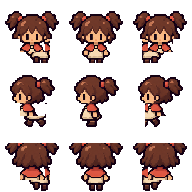
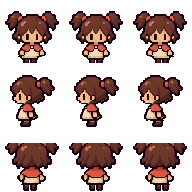
Artist's enemies v1: dryad, zombie, skeleton, bandit, gang boss drawn; townsfolk 11 and 15 redrawn and back on the streets
Claude-Session: https://claude.ai/code/session_01TYXz2638NXWLT7qwgW6KkP

diff --git a/src/content/wyglad.ts b/src/content/wyglad.ts
@@ -19,6 +19,8 @@ export interface Postac {
   skala: number;
   /** Make the STROJE colour variants from the mask (false: the mask is wrong, only the drawn colours). */
   przebarwiaj?: boolean;
+  /** Has a clothes mask file (`<plik>_maska.png`); the enemies don't. */
+  maska?: boolean;
   /** Kept off the streets until the artist redraws it (e.g. broken walking frames). */
   wylaczona?: boolean;
   /** Who it is, so the townsfolk get a fitting name: k = woman/girl, m = man/boy. */
@@ -56,15 +58,25 @@ export const MIESZKANCY_HD: Postac[] = [
   { id: 'pani', nazwa: 'Kobieta', plik: 'mieszkaniec_08', bokWPrawo: false, skala: 0.36, plec: 'k', wiek: 'dorosly' },
   { id: 'pan', nazwa: 'Mężczyzna', plik: 'mieszkaniec_09', bokWPrawo: false, skala: 0.36, plec: 'm', wiek: 'dorosly' },
   { id: 'dziadek', nazwa: 'Starszy pan', plik: 'mieszkaniec_10', bokWPrawo: false, skala: 0.36, plec: 'm', wiek: 'starszy' },
-  { id: 'panienka', nazwa: 'Dziewczynka', plik: 'mieszkaniec_11', bokWPrawo: false, skala: 0.36, plec: 'k', wiek: 'dziecko', wylaczona: true }, // same broken step frames as 15
+  { id: 'panienka', nazwa: 'Dziewczynka', plik: 'mieszkaniec_11', bokWPrawo: false, skala: 0.36, plec: 'k', wiek: 'dziecko' }, // redrawn in the enemies pack v1
   { id: 'urwis', nazwa: 'Chłopiec', plik: 'mieszkaniec_12', bokWPrawo: false, skala: 0.36, plec: 'm', wiek: 'dziecko' },
   { id: 'staruszka', nazwa: 'Starsza pani', plik: 'mieszkaniec_13', bokWPrawo: false, skala: 0.36, plec: 'k', wiek: 'starszy' },
   { id: 'staruszek', nazwa: 'Starszy pan w kapeluszu', plik: 'mieszkaniec_14', bokWPrawo: false, skala: 0.36, plec: 'm', wiek: 'starszy' },
-  { id: 'mieszczka', nazwa: 'Kobieta', plik: 'mieszkaniec_15', bokWPrawo: false, skala: 0.36, plec: 'k', wiek: 'dorosly', wylaczona: true }, // step frames: the skirt is a flat strip and the legs fly forward (owner: "przepołowiona")
+  { id: 'mieszczka', nazwa: 'Kobieta', plik: 'mieszkaniec_15', bokWPrawo: false, skala: 0.36, plec: 'k', wiek: 'dorosly' }, // redrawn in the enemies pack v1 (the first v5 step frames were "halved")
 ];
 
 /** The imp (chochlik): smaller than a person. */
 export const CHOCHLIK: Postac = { id: 'chochlik', nazwa: 'Chochlik', plik: 'slime', bokWPrawo: false, skala: 0.28 };
+
+/** The other enemies (pack „wrogowie v1”; no masks, the game adds the red glow). Key = enemy kind(s) in fabula.ts. */
+export const WROGOWIE_HD: { postac: Postac; rodzaje: string[] }[] = [
+  { postac: { id: 'driada', nazwa: 'Driada', plik: 'driada', bokWPrawo: false, skala: 0.32, maska: false }, rodzaje: ['driada'] },
+  { postac: { id: 'zombie', nazwa: 'Zombiak', plik: 'zombie', bokWPrawo: false, skala: 0.32, maska: false }, rodzaje: ['zombie'] },
+  { postac: { id: 'szkielet', nazwa: 'Szkielet', plik: 'szkielet', bokWPrawo: false, skala: 0.32, maska: false }, rodzaje: ['szkielet'] },
+  { postac: { id: 'bandyta', nazwa: 'Bandyta', plik: 'bandyta', bokWPrawo: false, skala: 0.36, maska: false }, rodzaje: ['bandyta'] },
+  // The boss: a bigger goblin with a helmet and a club; the game makes him 1.8× / 2.5× bigger (ENEMY_KINDS scale).
+  { postac: { id: 'herszt', nazwa: 'Herszt', plik: 'herszt', bokWPrawo: false, skala: 0.28, maska: false }, rodzaje: ['herszt', 'wielki_herszt'] },
+];
 
 /** Townsfolk: each hero in these clothes colours (hue in degrees, saturation ×, lightness ×) – red and green mask parts. */
 export const STROJE: { ubranie: [number, number, number]; drugi: [number, number, number] }[] = [

diff --git a/src/objects/Slime.ts b/src/objects/Slime.ts
@@ -1,7 +1,7 @@
 import Phaser from 'phaser';
 import { TEX, HERO_DIRS } from '../art';
 import type { RodzajWroga } from '../content/fabula';
-import { hdOn, fitHd } from '../sprites';
+import { hdOn, fitHd, enemyTexture } from '../sprites';
 import { PLAYER } from './Player';
 
 // Enemy kinds. `glut` is the basic slime; `wielki_glut` a boss-sized one;
@@ -43,9 +43,6 @@ export const SLIME = ENEMY_KINDS.glut;
 /** Enemy speeds above were set for a hero walking 60 px/s; they keep the same proportion to the hero's speed now. */
 export const PREDKOSC_WROGOW = PLAYER.speed / 60;
 
-/** Imps drawn as the new detailed goblin (content/wyglad.ts), with a red glow. */
-const HD_IMP = 'hd-chochlik-red';
-const HD_KINDS = new Set<RodzajWroga>(['glut', 'wielki_glut', 'herszt', 'wielki_herszt']);
 
 /** Pictures of the little creatures (all but the bandit). */
 const CRITTER_TEX: Partial<Record<RodzajWroga, string>> = { glut: TEX.slime, wielki_glut: TEX.slime, herszt: TEX.slime, wielki_herszt: TEX.slime, driada: TEX.dryad, zombie: TEX.zombie, szkielet: TEX.skeleton, smok: TEX.dragon };
@@ -90,8 +87,10 @@ export class Slime extends Phaser.GameObjects.Sprite {
   constructor(scene: Phaser.Scene, x: number, y: number, kind: RodzajWroga = 'glut') {
     const k = ENEMY_KINDS[kind];
     const person = kind === 'bandyta' || kind === 'wojownik';
-    const hd = hdOn && HD_KINDS.has(kind) && scene.textures.exists(HD_IMP);
-    super(scene, x, y, hd ? HD_IMP : person ? TEX.bandit : CRITTER_TEX[kind] ?? TEX.slime, person || hd ? 'down-0' : 'f0');
+    // The artist's detailed enemies (content/wyglad.ts), with a red glow; townsfolk in duels bring their own picture.
+    const hdTex = hdOn && kind !== 'wojownik' ? enemyTexture(kind) : null;
+    const hd = !!hdTex && scene.textures.exists(hdTex);
+    super(scene, x, y, hd ? hdTex! : person ? TEX.bandit : CRITTER_TEX[kind] ?? TEX.slime, person || hd ? 'down-0' : 'f0');
     scene.add.existing(this);
     this.kind = k;
     this.kindId = kind;
@@ -99,12 +98,12 @@ export class Slime extends Phaser.GameObjects.Sprite {
     this.hd = hd;
     if (hd) {
       fitHd(this, k.scale);
-      this.walkAnim = `${HD_IMP}-walk`;
+      this.walkAnim = `${hdTex}-walk`;
     } else {
       this.setScale(k.scale);
       this.setOrigin(0.5, 1 - 0.5 / k.scale); // grow upwards from the feet
     }
-    if (k.tint) this.setTint(k.tint);
+    if (k.tint && !(hd && kind === 'herszt')) this.setTint(k.tint); // the drawn boss has his own look; the big one stays redder
     this.home = new Phaser.Math.Vector2(x, y);
     if (hd) this.setFrame('down-0');
     else if (kind === 'smok') this.anims.play('dragon-flap');

diff --git a/src/sprites.ts b/src/sprites.ts
@@ -1,5 +1,5 @@
 import Phaser from 'phaser';
-import { BOHATEROWIE, CHOCHLIK, PIERWSI_BOHATEROWIE, MIESZKANCY_HD, NOWE_POSTACIE, POSWIATA, STOPY_PX, STROJE, type Postac } from './content/wyglad';
+import { BOHATEROWIE, CHOCHLIK, WROGOWIE_HD, PIERWSI_BOHATEROWIE, MIESZKANCY_HD, NOWE_POSTACIE, POSWIATA, STOPY_PX, STROJE, type Postac } from './content/wyglad';
 import { HERO_DIRS } from './art';
 
 // The new detailed characters (content/wyglad.ts). Every sheet becomes a
@@ -26,11 +26,21 @@ const ROW = { down: 0, side: 1, up: 2 } as const;
 
 export const hdOn = NOWE_POSTACIE;
 
+const ENEMIES = WROGOWIE_HD.map((w) => w.postac);
+const ALL = () => [...BOHATEROWIE, ...MIESZKANCY_HD, CHOCHLIK, ...ENEMIES];
+
+/** The detailed picture (with the red glow) of an enemy kind, when the artist drew one. */
+export function enemyTexture(kind: string): string | null {
+  if (kind === 'glut' || kind === 'wielki_glut') return 'hd-chochlik-red';
+  const w = WROGOWIE_HD.find((q) => q.rodzaje.includes(kind));
+  return w ? `hd-${w.postac.id}-red` : null;
+}
+
 export function loadHdSprites(scene: Phaser.Scene) {
   if (!hdOn) return;
-  for (const p of [...BOHATEROWIE, ...MIESZKANCY_HD, CHOCHLIK]) {
+  for (const p of ALL()) {
     scene.load.image(`hdsrc-${p.id}`, `postacie/${p.plik}.png`);
-    scene.load.image(`hdmask-${p.id}`, `postacie/${p.plik}_maska.png`);
+    if (p.maska !== false) scene.load.image(`hdmask-${p.id}`, `postacie/${p.plik}_maska.png`);
   }
 }
 
@@ -62,7 +72,7 @@ function baseOf(key: string) {
 
 export function createHdSprites(scene: Phaser.Scene) {
   if (!hdOn) return;
-  for (const p of [...BOHATEROWIE, ...MIESZKANCY_HD, CHOCHLIK]) {
+  for (const p of ALL()) {
     if (!scene.textures.exists(`hdsrc-${p.id}`)) continue;
     const src = sheetPixels(scene, p);
     const mask = maskPixels(scene, p);
@@ -70,7 +80,7 @@ export function createHdSprites(scene: Phaser.Scene) {
     skala.set(key, p.skala);
     addSheet(scene, key, src);
     addSheet(scene, `${key}-red`, glow(src));
-    if (p === CHOCHLIK || p.przebarwiaj === false) continue;
+    if (p === CHOCHLIK || ENEMIES.includes(p) || p.przebarwiaj === false) continue;
     STROJE.forEach((s, i) => {
       if (i === 0) return;
       const c = recolour(src, mask, s);

diff --git a/CLAUDE.md b/CLAUDE.md
@@ -28,7 +28,7 @@
 - Item pictures: 16×16 pixel-art PNGs in `public/items/<item id>.png` (made by the owner with another AI: 1 px #1e1a24 outline, transparent, no anti-aliasing), shown enlarged with `image-rendering: pixelated` by `src/ui/itemIcon.ts` (list `HAVE`) in the character sheet and the chest (empty slots show a greyed one, `EMPTY_PIC`), and as Phaser textures `item-<id>` (loaded in BootScene.preload, `itemTexture`) on shop/library buttons (`DialogRequest.icons`); items without a picture fall back to emoji. New items need a PNG and an entry in `ITEM_PICTURES`.
 - Hero look: `src/look.ts` draws the player's hero pixel by pixel (16×20 frames: head shape, build, outfit, hairstyle, skin/hair/top/bottom colours, plus worn helmet/headwear, armour and boots). Random at creation (preview in menu.ts, "🎲 Losuj wygląd" rolls again; the sliders were removed on the owner's request), saved as `save.look` (create_character `p_look`). In the game the texture is `hero-me` with anims `me-walk-*` (`makePlayerTexture` in art.ts), redrawn when worn gear changes (`refreshLook`). NPCs still use the default `hero` texture. Headwear items: kapelusz (Robin Hood), skórzany/żelazny hełm, czapka_maga (library), korona (only via codes/rewards); shops offer every headwear not owned.
 - The owner tried the modular 24×30 character parts (modularne_postacie_24x30) and rejected them ("fatalnie wyglądają").
-- New detailed characters (test server; `NOWE_POSTACIE` in `src/content/wyglad.ts`, code in `src/sprites.ts`): artist sheets in `public/postacie/<plik>.png` (192×192 = 3×3 frames of 64: rows down/side-looking-left/up, columns step A/stand/step B, feet at px 62) + `<plik>_maska.png` (red = clothes, green = second colour). Textures `hd-<id>` with the old frame names (`down-0`…), smoothed (LINEAR), shrunk by `skala` (0.36 people, 0.28 imp; `fitHd` keeps the feet 8 px under the position); `-red` copies with a baked red glow (POSWIATA) for enemies and duel townsfolk; townsfolk = the artist's MIESZKANCY_HD (mieszkaniec_01–15: kobieta, chlopiec, wasacz, babcia, mlodzieniec, dziewczynka, chlopak, pani, pan, dziadek, panienka, urwis, staruszka, staruszek, mieszczka; 11–15 and the restyled traveler/knight/ranger/slime + masks from the style fix pack v5 – its 06–10 were not to be copied; masks from the v3 pack mark only clothes, so each also comes in the STROJE colours = 50 looks; notes for the artist's next pack in docs/paczka-dla-artysty/UWAGI_przed_kolejna_paczka.md; `przebarwiaj: false` turns variants off for a sheet with a bad mask; `wylaczona: true` keeps a sheet off the streets (11 and 15: the v5 step frames draw the skirt as a flat strip, the owner saw the woman "halved"; asked the artist to redraw – the „poprawki” in the heroes 04–10 pack were byte-identical to the old files); every Postac has `plec` k/m + `wiek` dziecko/dorosly/starszy, and Townsfolk names them from MIESZKANCY.imionaWg via `personOf(tex)` – the owner caught a woman named "Pan Rysiek") or, without them, the heroes × STROJE recolours (`hd-<id>-s<n>`); stray specks are removed, `bokWPrawo` mirrors a side row that looks right, and `centreShifts` lines the frames up (the artist drew the standing frame 4–6 px off the steps for the knight/ranger, so walking jittered: each step frame is moved to best cover the standing one's outline, then the row so the standing body's lower half is centred; the mask gets the same shifts). Hero = BOHATEROWIE[`look.postac`] (◀ ▶ in the character sheet; 10 heroes: traveler/knight/ranger + bohater_04–10; a new character gets a random `postac` at creation; without one the name hash picks among the first PIERWSI_BOHATEROWIE 3, so older characters keep their look); worn gear doesn't show on them (owner OK). Imps (glut, wielki_glut, herszt, wielki_herszt) use `hd-chochlik-red` and walk by direction (`Slime.hd`). Old 16×20 look.ts heroes stay for the menu preview, fixed NPCs, riddle-givers, the wizard and when the flag is off. The one package for the artist: `docs/paczka-dla-artysty/` (CZYTAJ_MNIE.md/.html = all guidelines incl. building tiles at the new 3× scale, sheet template, v1 issues, every current texture exported ×4 under its target file name, item icons, screenshots); zip it for the owner. Walking uses only the two step frames (`WALK` [1, 2], WALK_FPS 5): the v1 standing frames are drawn differently (ponytail/helmet), so step–stand–step jittered even aligned.
+- New detailed characters (test server; `NOWE_POSTACIE` in `src/content/wyglad.ts`, code in `src/sprites.ts`): artist sheets in `public/postacie/<plik>.png` (192×192 = 3×3 frames of 64: rows down/side-looking-left/up, columns step A/stand/step B, feet at px 62) + `<plik>_maska.png` (red = clothes, green = second colour). Textures `hd-<id>` with the old frame names (`down-0`…), smoothed (LINEAR), shrunk by `skala` (0.36 people, 0.28 imp; `fitHd` keeps the feet 8 px under the position); `-red` copies with a baked red glow (POSWIATA) for enemies and duel townsfolk; townsfolk = the artist's MIESZKANCY_HD (mieszkaniec_01–15: kobieta, chlopiec, wasacz, babcia, mlodzieniec, dziewczynka, chlopak, pani, pan, dziadek, panienka, urwis, staruszka, staruszek, mieszczka; 11–15 and the restyled traveler/knight/ranger/slime + masks from the style fix pack v5 – its 06–10 were not to be copied; masks from the v3 pack mark only clothes, so each also comes in the STROJE colours = 50 looks; notes for the artist's next pack in docs/paczka-dla-artysty/UWAGI_przed_kolejna_paczka.md; `przebarwiaj: false` turns variants off for a sheet with a bad mask; `wylaczona: true` keeps a sheet off the streets (used for 11 and 15 until the enemies pack v1 redrew them: the v5 step frames draw the skirt as a flat strip, the owner saw the woman "halved"; asked the artist to redraw – the „poprawki” in the heroes 04–10 pack were byte-identical to the old files); every Postac has `plec` k/m + `wiek` dziecko/dorosly/starszy, and Townsfolk names them from MIESZKANCY.imionaWg via `personOf(tex)` – the owner caught a woman named "Pan Rysiek") or, without them, the heroes × STROJE recolours (`hd-<id>-s<n>`); stray specks are removed, `bokWPrawo` mirrors a side row that looks right, and `centreShifts` lines the frames up (the artist drew the standing frame 4–6 px off the steps for the knight/ranger, so walking jittered: each step frame is moved to best cover the standing one's outline, then the row so the standing body's lower half is centred; the mask gets the same shifts). Hero = BOHATEROWIE[`look.postac`] (◀ ▶ in the character sheet; 10 heroes: traveler/knight/ranger + bohater_04–10; a new character gets a random `postac` at creation; without one the name hash picks among the first PIERWSI_BOHATEROWIE 3, so older characters keep their look); worn gear doesn't show on them (owner OK). Enemies walk by direction (`Slime.hd`): imps (glut, wielki_glut) use `hd-chochlik-red`; driada/zombie/szkielet/bandyta/herszt (+ wielki_herszt, the same goblin boss 2.5× and still red-tinted) come from the „wrogowie v1” pack (`WROGOWIE_HD` in wyglad.ts, `maska: false` = no mask file, `enemyTexture(kind)` in sprites.ts); duel townsfolk keep their own picture. Old 16×20 look.ts heroes stay for the menu preview, fixed NPCs, riddle-givers, the wizard and when the flag is off. The one package for the artist: `docs/paczka-dla-artysty/` (CZYTAJ_MNIE.md/.html = all guidelines incl. building tiles at the new 3× scale, sheet template, v1 issues, every current texture exported ×4 under its target file name, item icons, screenshots); zip it for the owner. Walking uses only the two step frames (`WALK` [1, 2], WALK_FPS 5): the v1 standing frames are drawn differently (ponytail/helmet), so step–stand–step jittered even aligned.
 - Sharper picture (`src/screen.ts` OSTROSC): the canvas has min(2, floor(devicePixelRatio)) pixels per CSS pixel (Scale.NONE, zoom 1/OSTROSC, resized by hand in main.ts); GameScene's zoom is ×OSTROSC, UIScene's camera is zoomed by OSTROSC and centred (origin 0 put Graphics off their place) so the HUD is still laid out in CSS px (`this.view`), its texts get resolution OSTROSC; screen↔world conversions divide/multiply by it. `watchSpeed`: under 35 fps after 15 s of play → localStorage `exp-ostrosc`=1 (plain picture from the next start). `?ostrosc=1|2` forces it. In headless swiftshader it costs ~28 → ~11 fps (fill rate).
 - Home: the nearest real building to the start point (`setUpHome`), a small house icon on its roof; a sword swing that lands on it opens the home (walking in does not). No enemies within `HOME_SAFE_M` (40 m) of the start: they vanish (`clearHomeArea`, mission enemies excepted).
 - Roads: build-map turns major/medium/minor roads into `paved` areas (merged, gaps under 12 m between them closed, buildings cut out), drawn with a cobblestone pattern over the earthen tracks; thinner roads and paths stay earthen. Roundabouts (`junction=roundabout`) get a `merchant` POI: a cart on the ring that works as a shop.

diff --git a/docs/paczka-dla-artysty/UWAGI_przed_kolejna_paczka.md b/docs/paczka-dla-artysty/UWAGI_przed_kolejna_paczka.md
@@ -22,3 +22,8 @@ Dzięki za mieszkańców 01–10. Są już w grze, maski z v3 i z 06–10 dział
 9. **Bohaterowie 04–10 są przyjęci** i są już w grze, maski też. Dzięki!
 10. **Mieszkańcy 11 i 15 nadal do poprawy.** Pliki w folderze `poprawki_mieszkancow_11_15` są piksel w piksel takie same jak poprzednie (sprawdzone programem), więc poprawka nie trafiła do paczki. Problem z punktu 8 dalej jest: w krokach A i B (zwłaszcza z boku) spódnica jest płaskim paskiem, a nogi wystrzelone do przodu. Proszę narysować te klatki od nowa: spódnica w tym samym kształcie co w klatce „stoi”, spod niej widać tylko nogi.
 11. **Następna paczka: wrogowie** – driada, zombie, szkielet, bandyta, herszt (ten sam format 3×3 po 64×64, bez czerwonego obrysu, gra dodaje poświatę sama; herszt też 64×64, gra go powiększa).
+
+## Po paczce „wrogowie v1”
+
+12. **Wrogowie przyjęci** (driada, zombie, szkielet, bandyta, herszt) i są w grze. Herszt jest powiększany 1,8×, a wielki herszt 2,5× i dodatkowo zaczerwieniony. Dzięki!
+13. **Mieszkańcy 11 i 15 poprawieni, są z powrotem na ulicach.** Drobiazg: u 11 w widoku od tyłu kucyki są ścięte płasko u góry – przy okazji warto je domknąć.
